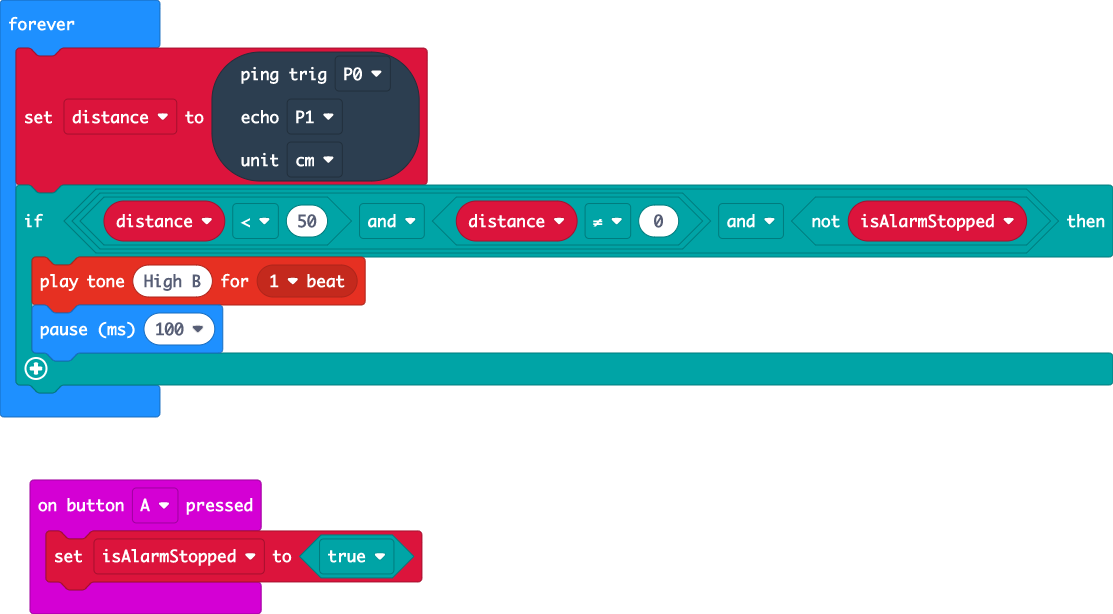
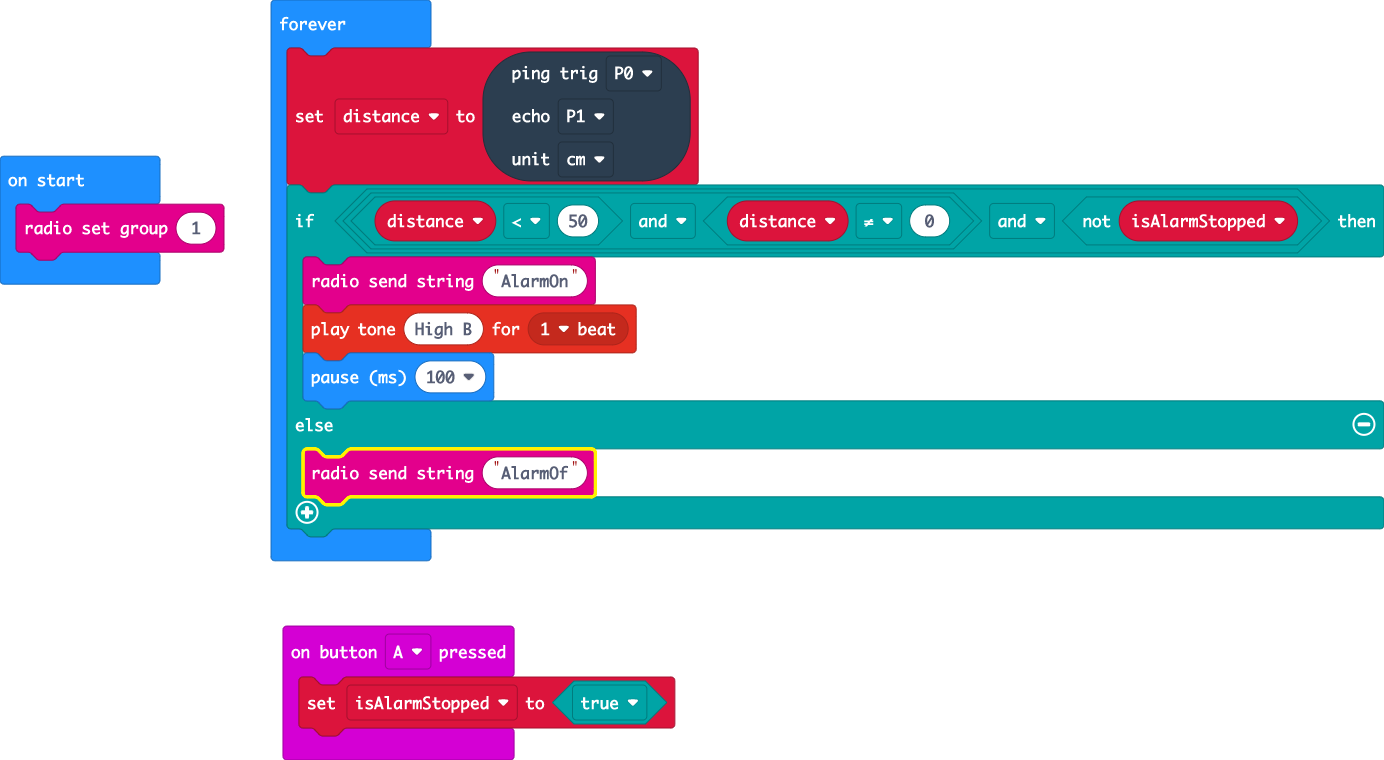
send info to other microbit

diff --git a/main.ts b/main.ts
@@ -1,8 +1,9 @@
-let isAlarmStopped = false
-let distance = 0
 input.onButtonPressed(Button.A, function () {
     isAlarmStopped = true
 })
+let distance = 0
+let isAlarmStopped = false
+radio.setGroup(1)
 basic.forever(function () {
     distance = sonar.ping(
     DigitalPin.P0,
@@ -10,7 +11,10 @@ basic.forever(function () {
     PingUnit.Centimeters
     )
     if (distance < 50 && distance != 0 && !(isAlarmStopped)) {
+        radio.sendString("AlarmOn")
         music.playTone(988, music.beat(BeatFraction.Whole))
         basic.pause(100)
+    } else {
+        radio.sendString("AlarmOf")
     }
 })
